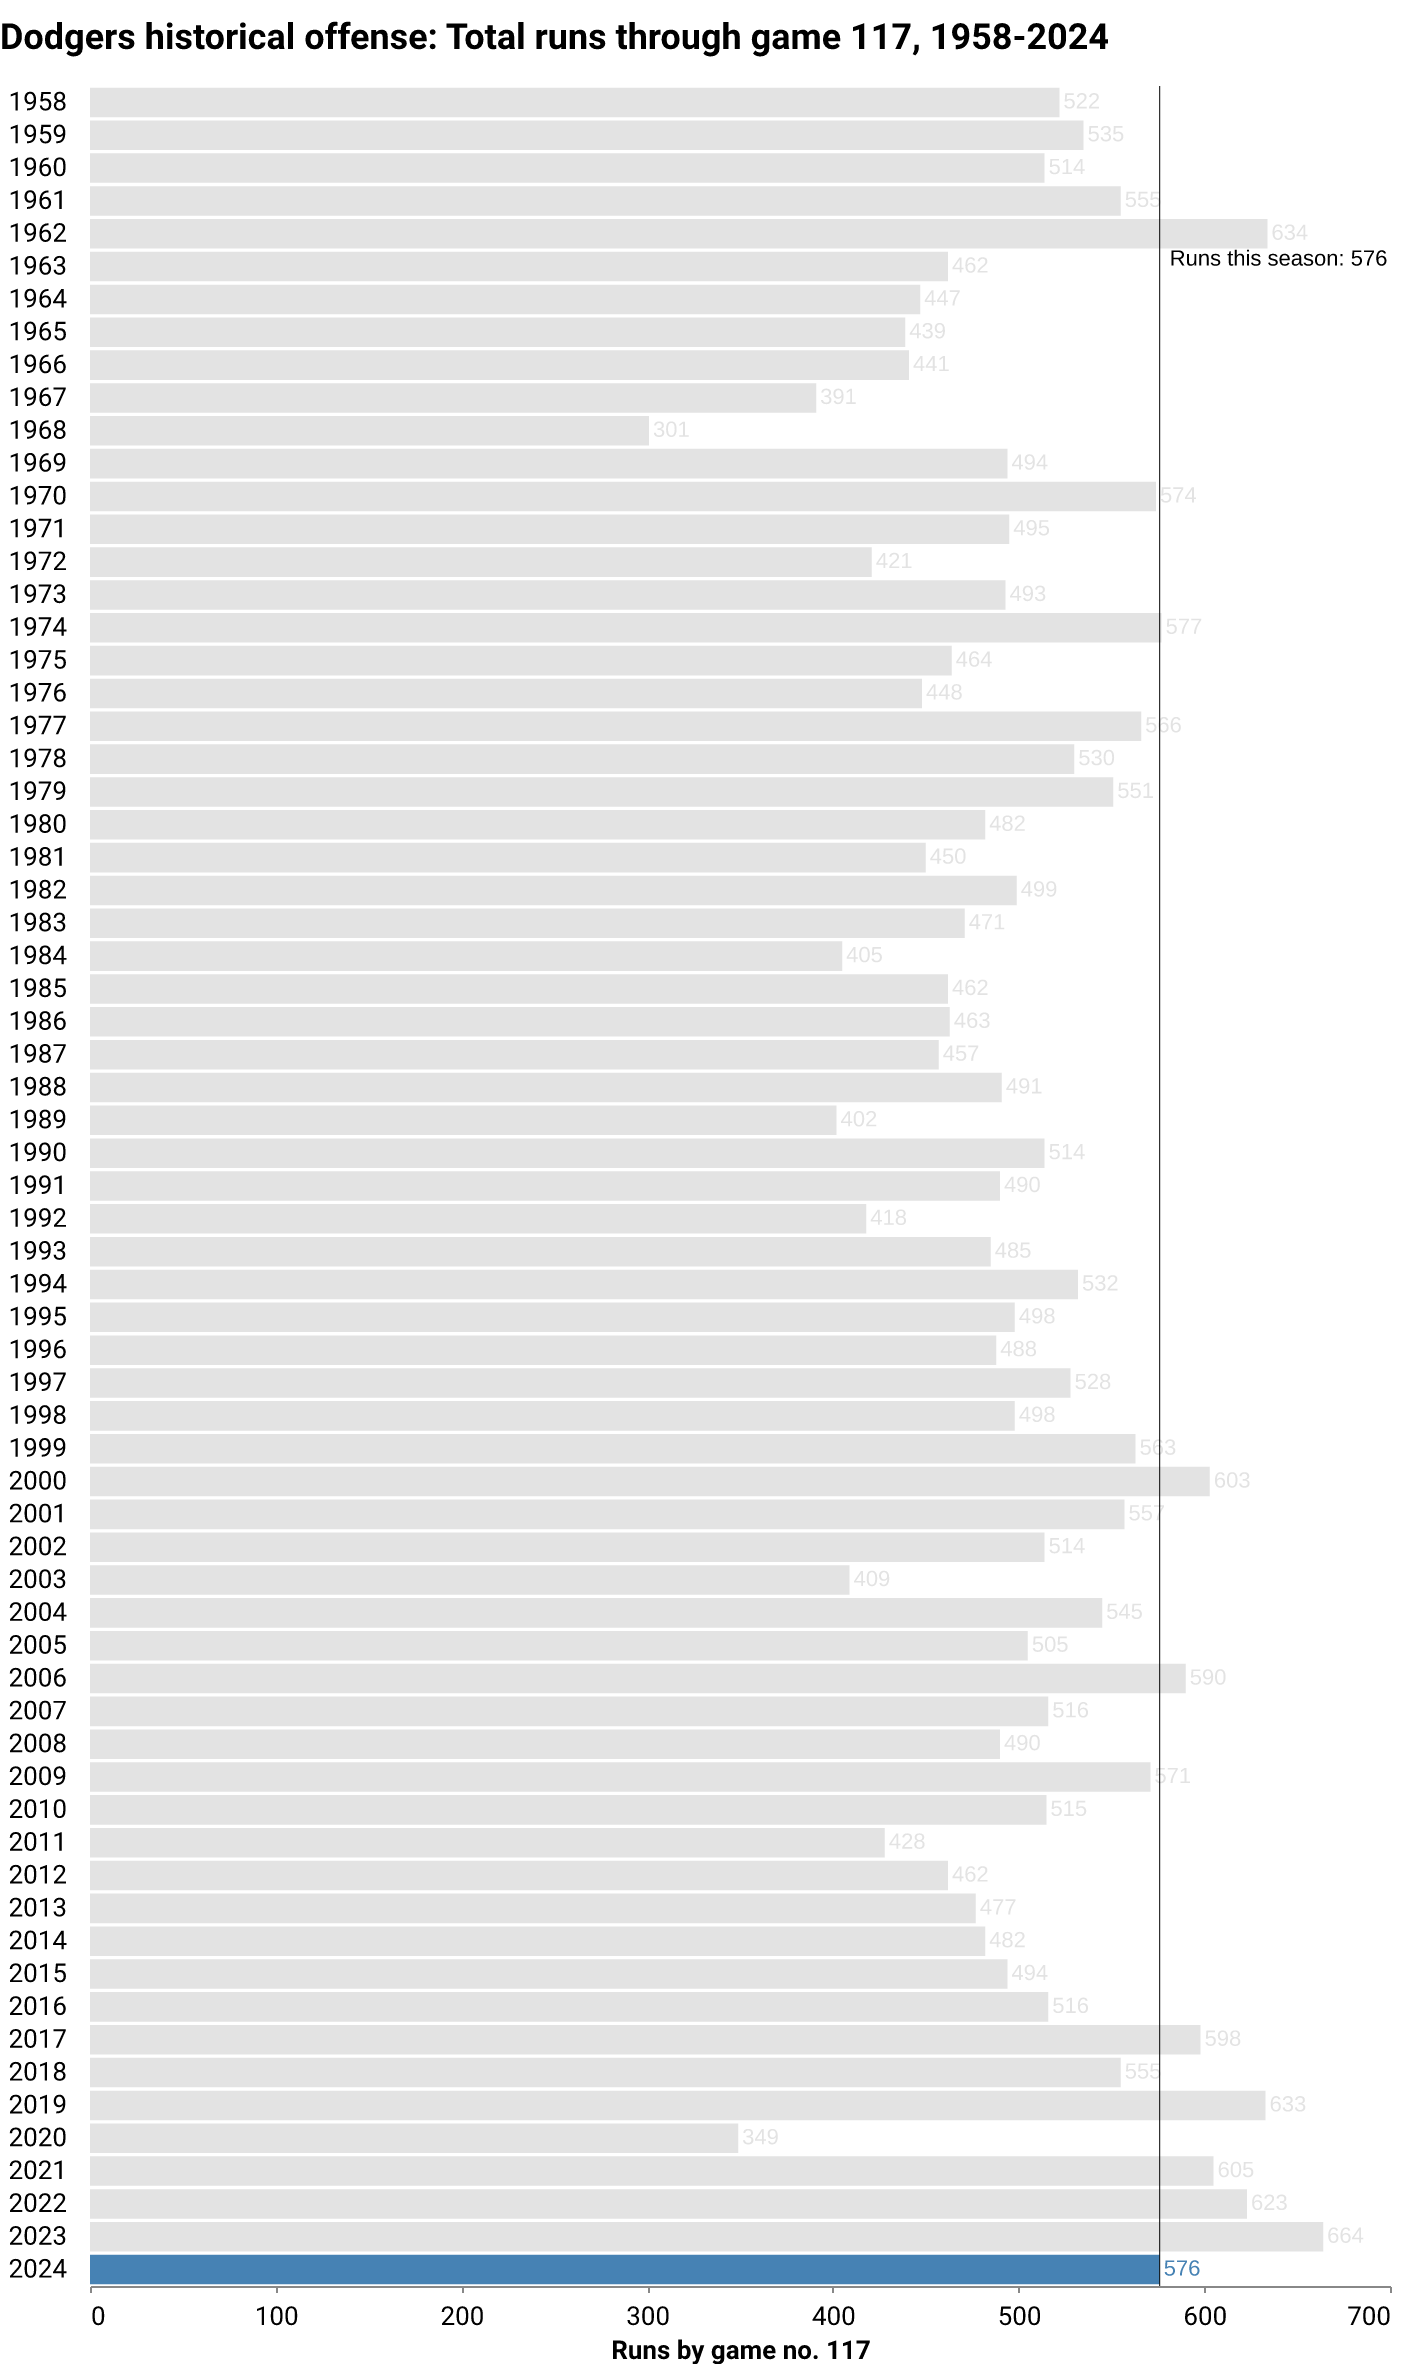
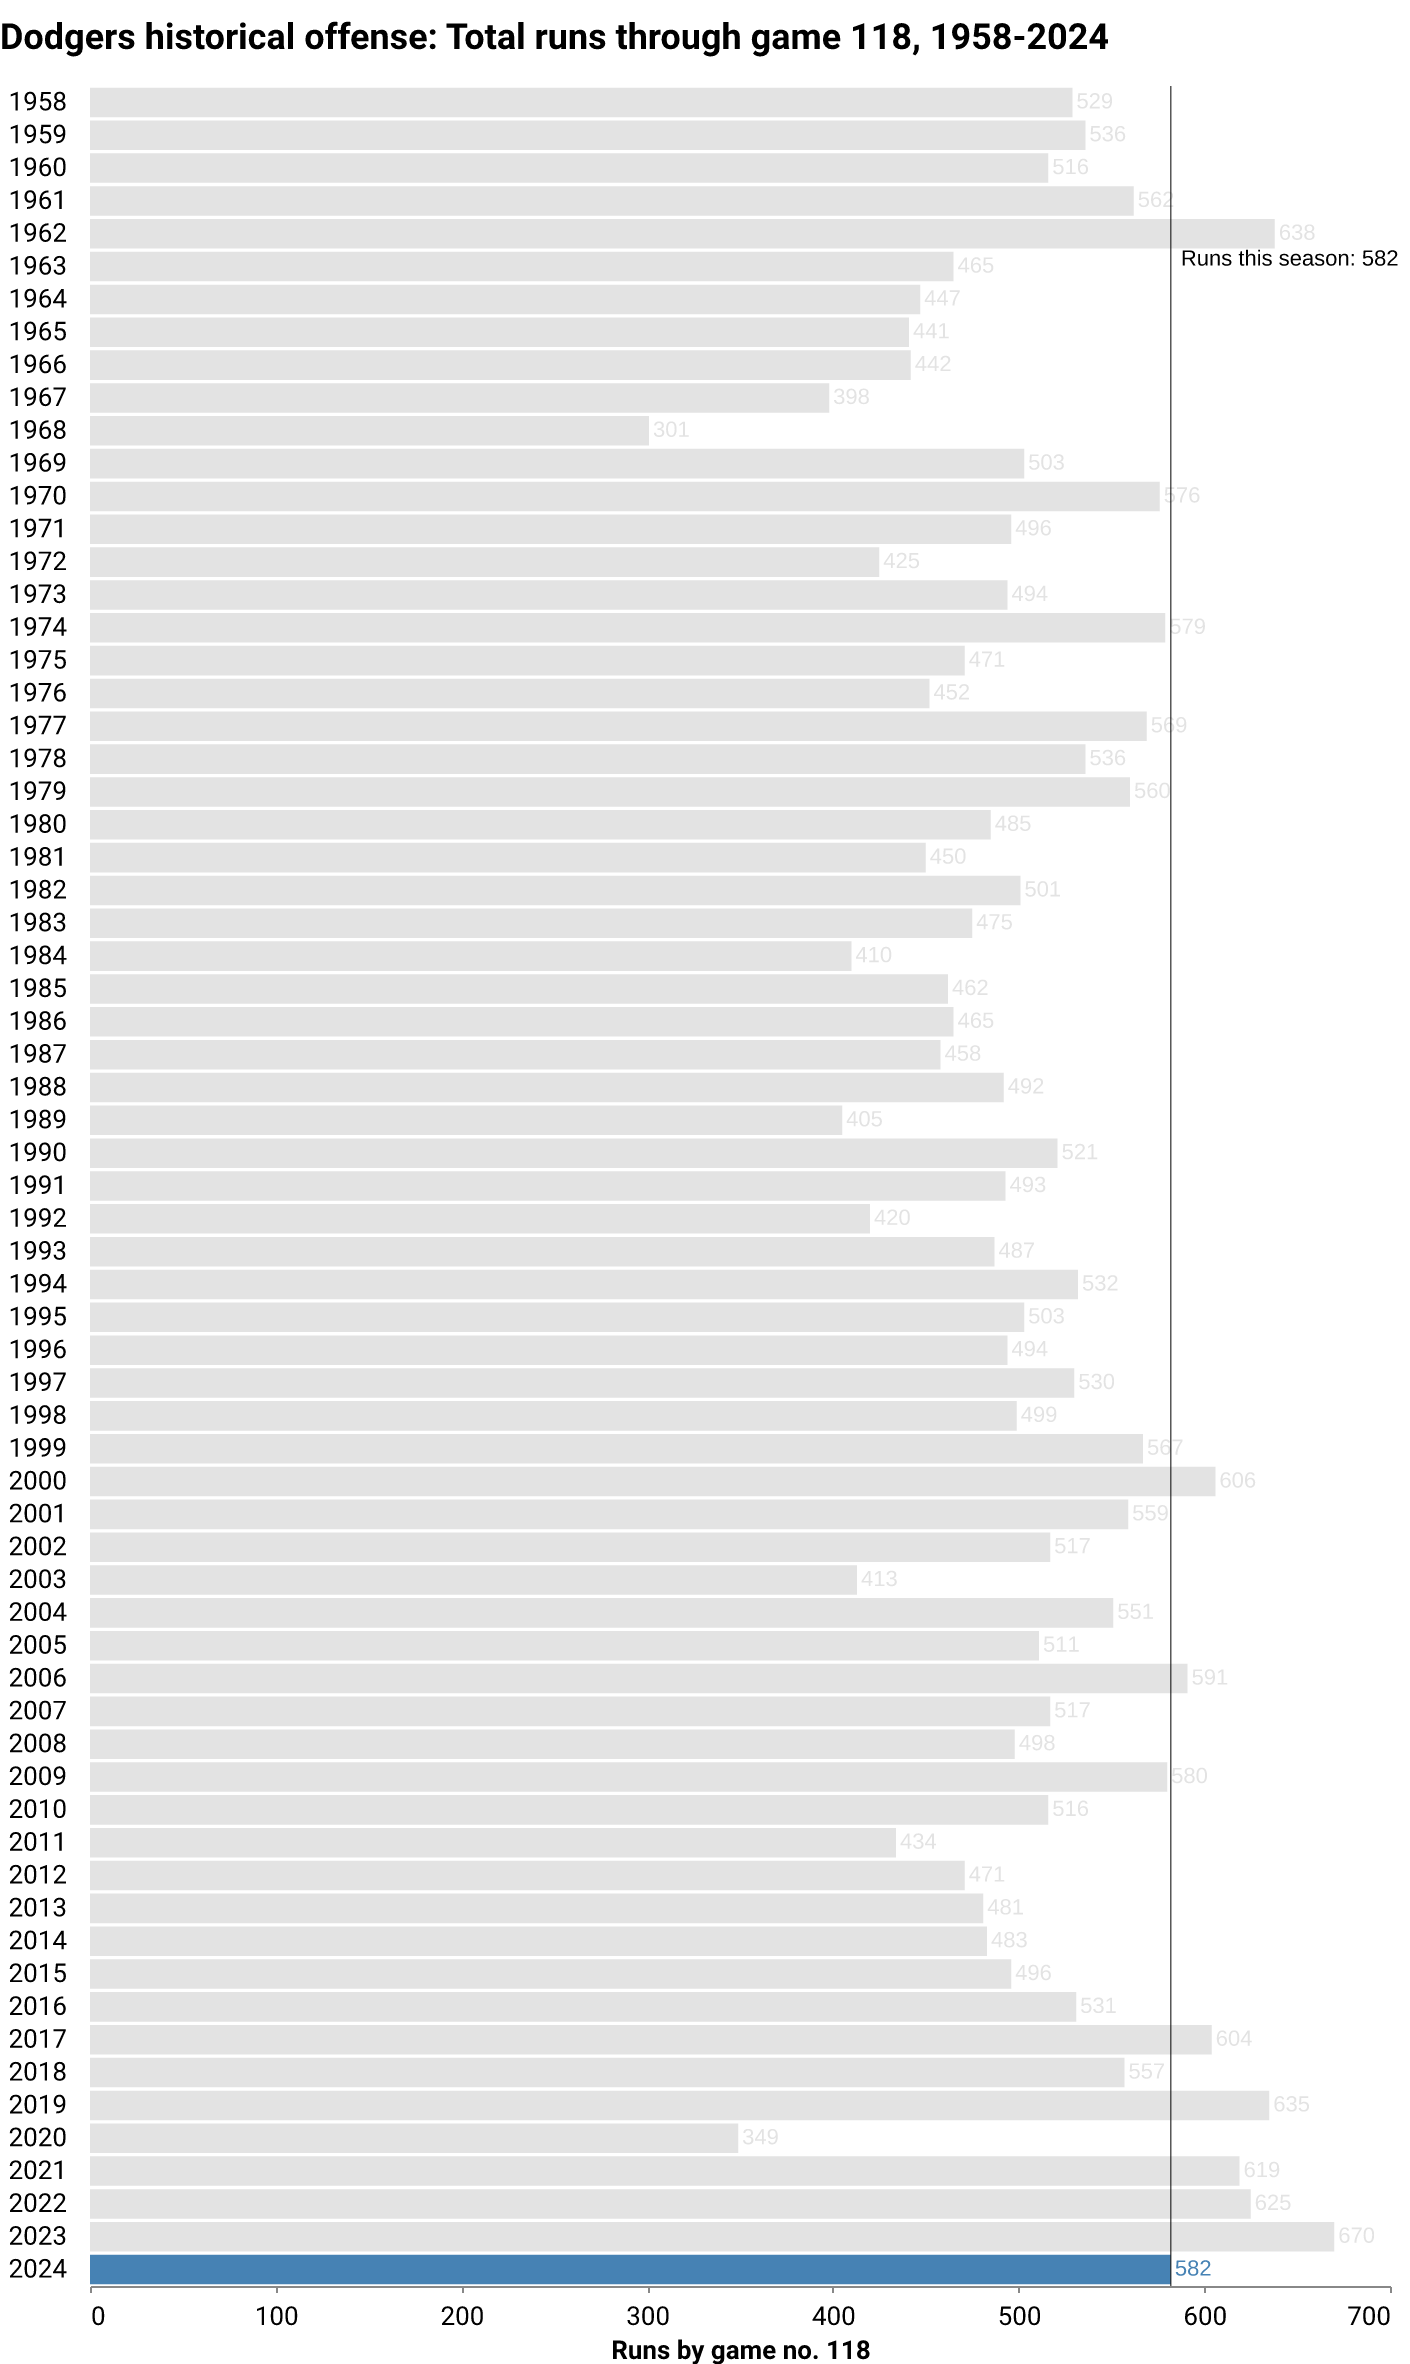
deploy: c4eefbb2255de1b9357918df3d590b7999b0bd6a

diff --git a/index.html b/index.html
@@ -184,7 +184,7 @@
 <p class="subhead">
     
     
-    <span class="highlight">LOS ANGELES</span> <span class="updated">(August 11)</span> — After <span class="highlight">117</span> games this season, the Dodgers are in <span class="highlight">1st</span> place in the National League West division. The team has compiled a <span class="highlight">68-49</span> record, winning <span class="highlight">57%</span> of its games so far. The last game was a <span class="highlight">4-1</span> home <span class="highlight">win</span> against the Pittsburgh Pirates in front of <span class="highlight">50,697</span> fans. They've won <span class="highlight">5 of the last 10</span>.
+    <span class="highlight">LOS ANGELES</span> <span class="updated">(August 12)</span> — After <span class="highlight">118</span> games this season, the Dodgers are in <span class="highlight">1st</span> place in the National League West division. The team has compiled a <span class="highlight">69-49</span> record, winning <span class="highlight">57%</span> of its games so far. The last game was a <span class="highlight">6-5</span> home <span class="highlight">win</span> against the Pittsburgh Pirates in front of <span class="highlight">50,389</span> fans. They've won <span class="highlight">6 of the last 10</span>.
 </p>
 </div>
 
@@ -206,10 +206,10 @@
             Wins
           </div>
           <div class="card-body">
-            <p class="card-text">68</p>
+            <p class="card-text">69</p>
           </div>
           <div class="card-footer text-muted">
-        This point last season: 71
+        This point last season: 72
           </div>
         </div>
       </div>
@@ -238,10 +238,10 @@
             Record
           </div>
           <div class="card-body">
-            <p class="card-text">68-49</p>
+            <p class="card-text">69-49</p>
           </div>
           <div class="card-footer text-muted">
-        This point last season: 71-46
+        This point last season: 72-46
           </div>
         </div>
       </div>
@@ -270,7 +270,7 @@
             Games up/back
           </div>
           <div class="card-body">
-            <p class="card-text">2.5</p>
+            <p class="card-text">3.5</p>
           </div>
           <div class="card-footer text-muted">
         Division rank: 1
@@ -286,10 +286,10 @@
             Avg. home attendance
           </div>
           <div class="card-body">
-            <p class="card-text">48,202</p>
+            <p class="card-text">48,239</p>
           </div>
           <div class="card-footer text-muted">
-        Home games this season: 59
+        Home games this season: 60
           </div>
         </div>
       </div>
@@ -302,7 +302,7 @@
             Runs
           </div>
           <div class="card-body">
-            <p class="card-text">576</p>
+            <p class="card-text">582</p>
           </div>
           <div class="card-footer text-muted">
         League rank: 2
@@ -318,10 +318,10 @@
             Runs against
           </div>
           <div class="card-body">
-            <p class="card-text">480</p>
+            <p class="card-text">485</p>
           </div>
           <div class="card-footer text-muted">
-        This point last season: 528
+        This point last season: 530
           </div>
         </div>
       </div>
@@ -334,10 +334,10 @@
             Run differential
           </div>
           <div class="card-body">
-            <p class="card-text">96</p>
+            <p class="card-text">97</p>
           </div>
           <div class="card-footer text-muted">
-        This point last season: 136
+        This point last season: 140
           </div>
         </div>
       </div>
@@ -440,7 +440,7 @@
             Home runs/game
           </div>
           <div class="card-body">
-            <p class="card-text">1.33</p>
+            <p class="card-text">1.32</p>
           </div>
           <div class="card-footer text-muted">
         Last decade average: 1.36
@@ -456,7 +456,7 @@
             On-base percentage
           </div>
           <div class="card-body">
-            <p class="card-text">.332</p>
+            <p class="card-text">.333</p>
           </div>
           <div class="card-footer text-muted">
         Last decade average: .332
@@ -472,10 +472,10 @@
             Stolen bases
           </div>
           <div class="card-body">
-            <p class="card-text">77</p>
+            <p class="card-text">78</p>
           </div>
           <div class="card-footer text-muted">
-        League rank: 9
+        League rank: 10
           </div>
         </div>
       </div>
@@ -598,7 +598,7 @@
             Strikeouts
           </div>
           <div class="card-body">
-            <p class="card-text">1008</p>
+            <p class="card-text">1015</p>
           </div>
           <div class="card-footer text-muted">
         League rank: 7
@@ -614,10 +614,10 @@
             Walks
           </div>
           <div class="card-body">
-            <p class="card-text">357</p>
+            <p class="card-text">359</p>
           </div>
           <div class="card-footer text-muted">
-        League rank: 9
+        League rank: 8
           </div>
         </div>
       </div>
@@ -633,7 +633,7 @@
             <p class="card-text">3.78</p>
           </div>
           <div class="card-footer text-muted">
-        League rank: 5
+        League rank: 4
           </div>
         </div>
       </div>
@@ -708,7 +708,7 @@
     </div>
 </div>
 
-  <p class="dated">Notes: Last updated August 11, 2024, 3:03 PM PT. More <a href="https://github.com/stiles/dodgers/blob/main/README.md">about the data</a>.</p>
+  <p class="dated">Notes: Last updated August 12, 2024, 12:03 AM PT. More <a href="https://github.com/stiles/dodgers/blob/main/README.md">about the data</a>.</p>
   
 </div>
 
